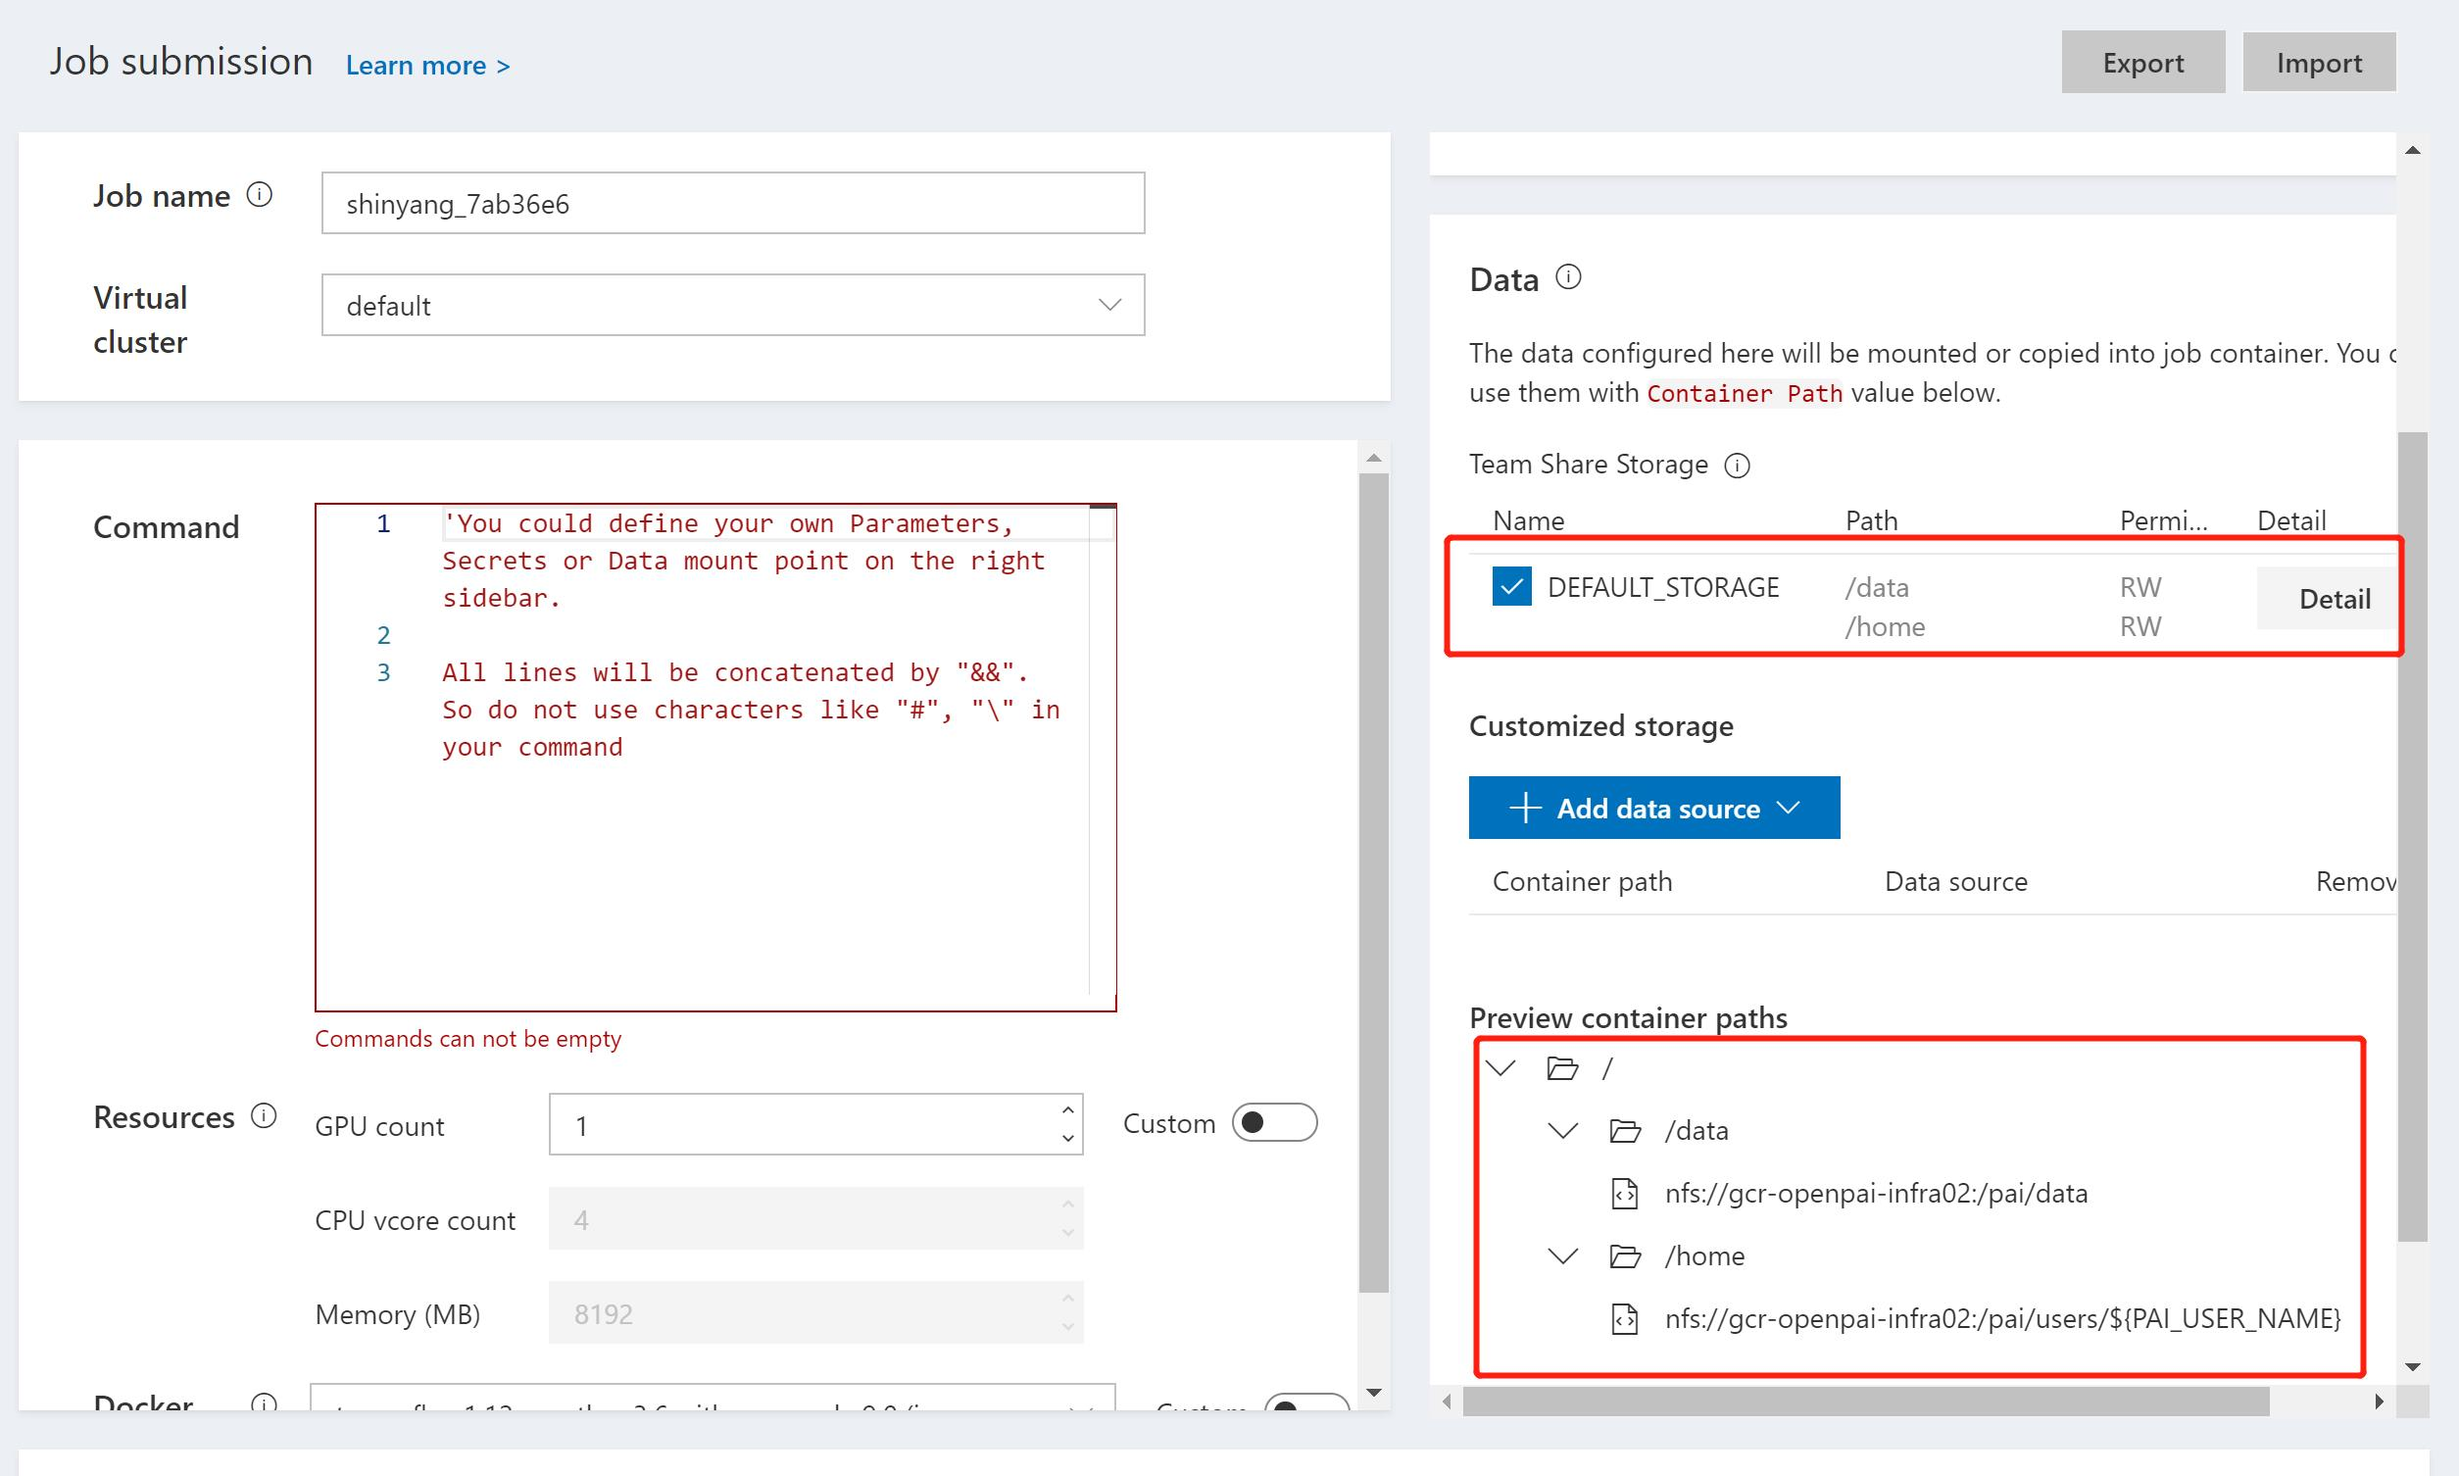
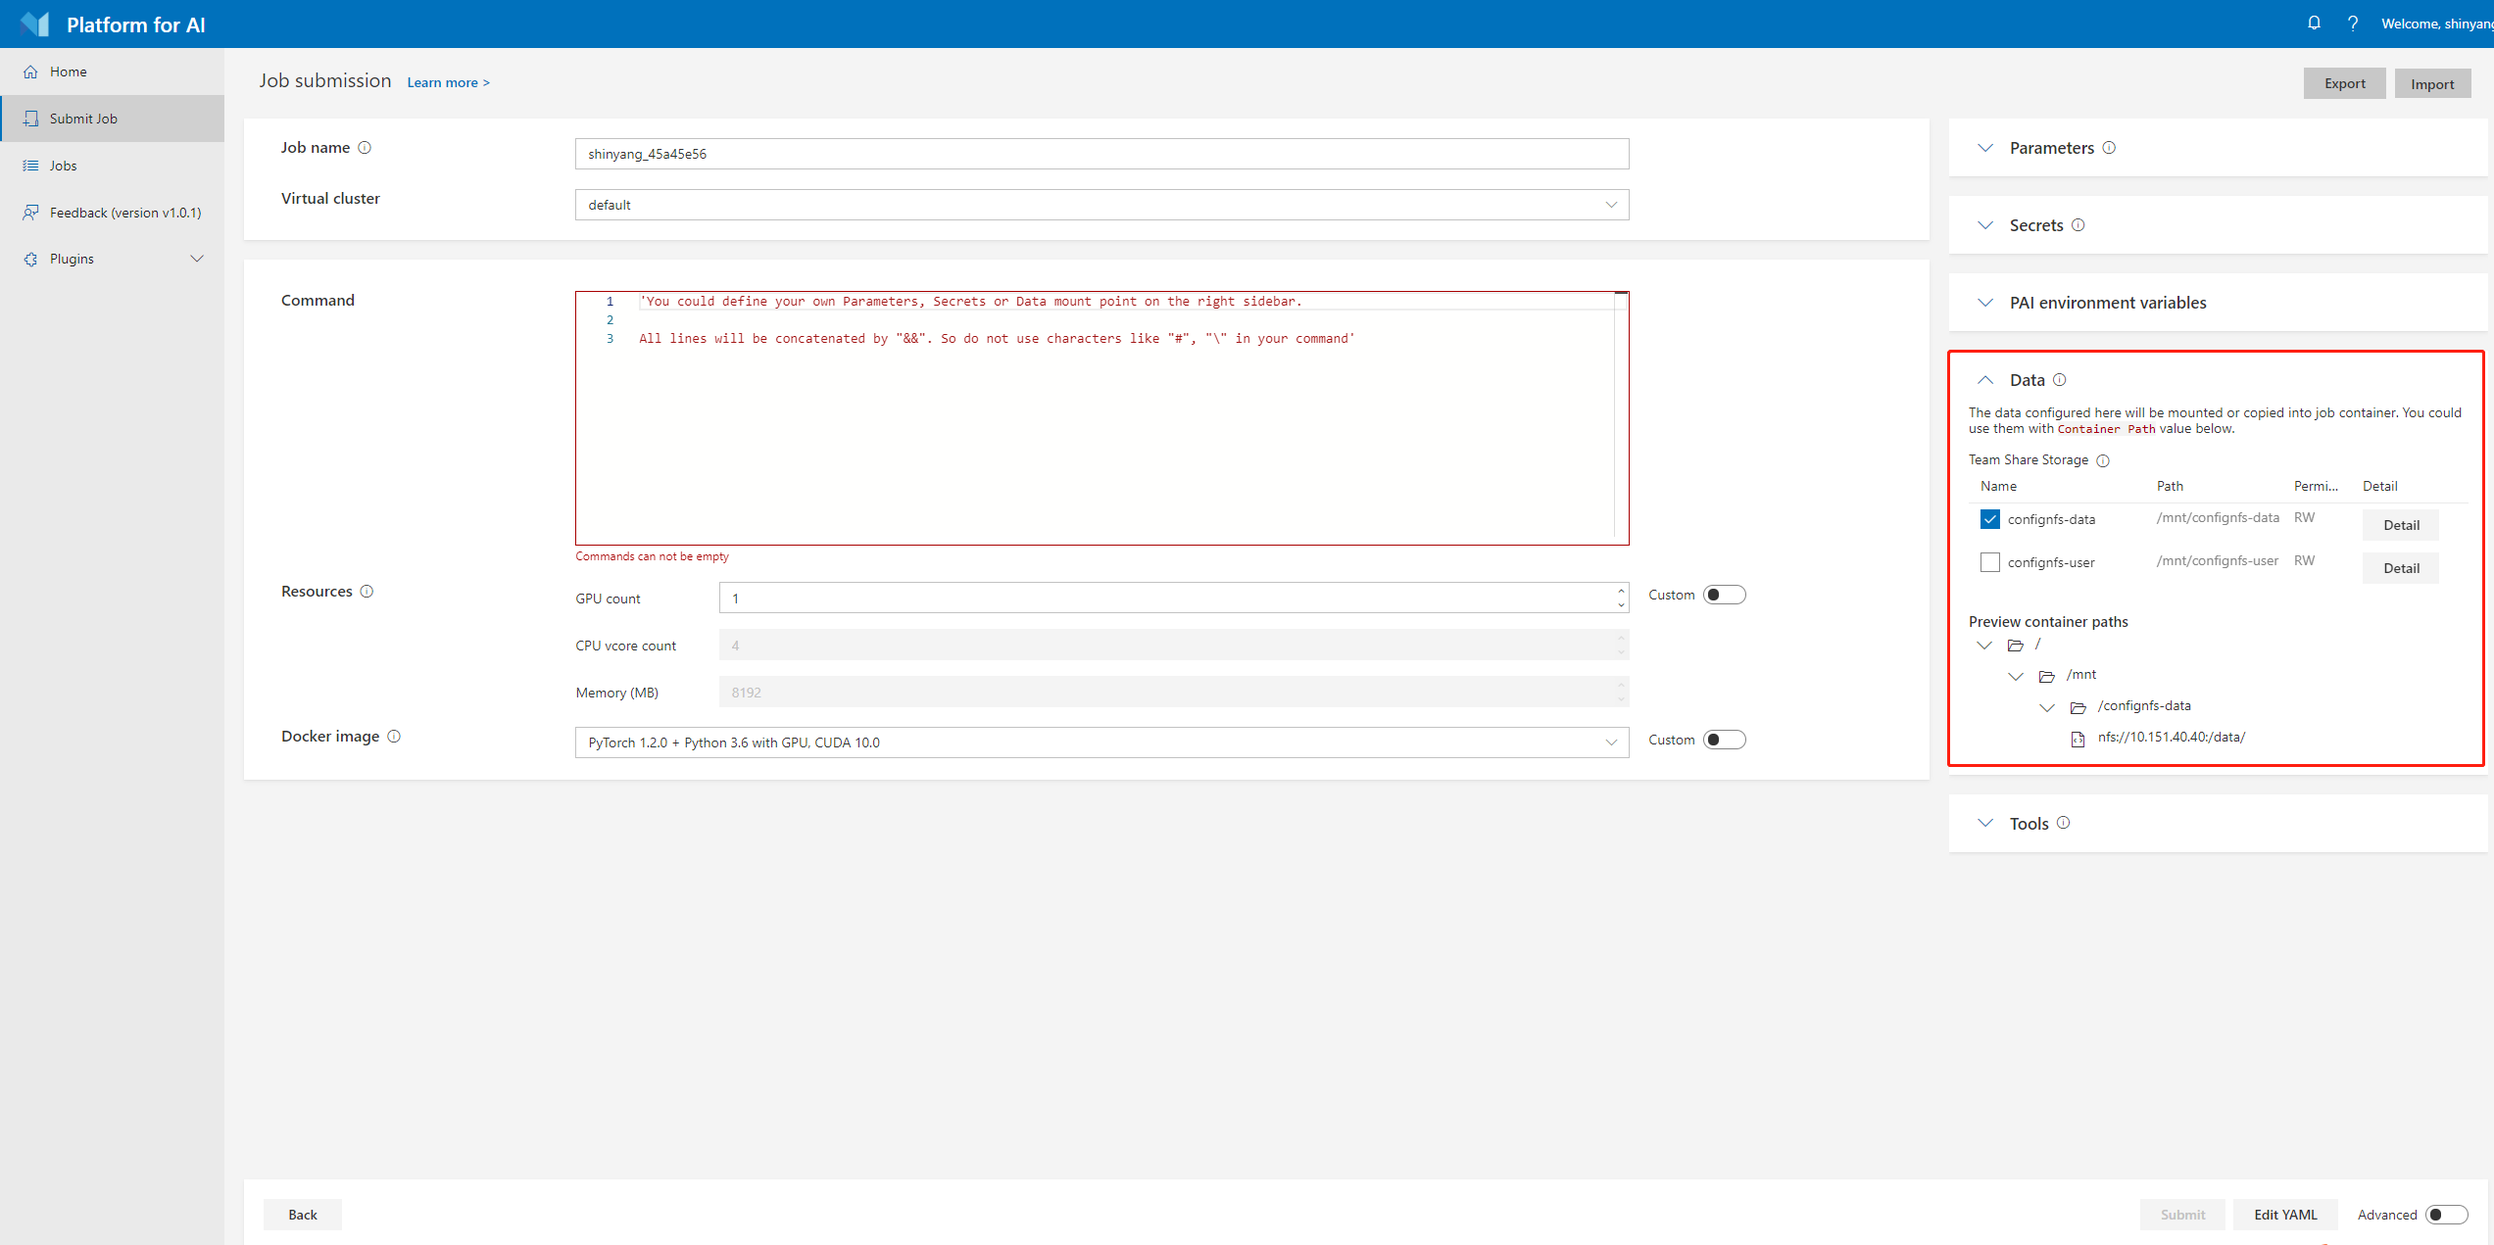
support paiStorageConfigName

diff --git a/src/nni_manager/training_service/pai/paiK8S/paiK8SConfig.ts b/src/nni_manager/training_service/pai/paiK8S/paiK8SConfig.ts
@@ -30,12 +30,12 @@ export class NNIPAIK8STrialConfig extends TrialConfig {
     public virtualCluster?: string;
     public readonly nniManagerNFSMountPath: string;
     public readonly containerNFSMountPath: string;
-    public readonly paiStoragePlugin: string;
+    public readonly paiStorageConfigName: string;
     public readonly paiConfigPath?: string;
 
     constructor(command: string, codeDir: string, gpuNum: number, cpuNum: number, memoryMB: number,
                 image: string, nniManagerNFSMountPath: string, containerNFSMountPath: string,
-                paiStoragePlugin: string, virtualCluster?: string, paiConfigPath?: string) {
+                paiStorageConfigName: string, virtualCluster?: string, paiConfigPath?: string) {
         super(command, codeDir, gpuNum);
         this.cpuNum = cpuNum;
         this.memoryMB = memoryMB;
@@ -43,7 +43,7 @@ export class NNIPAIK8STrialConfig extends TrialConfig {
         this.virtualCluster = virtualCluster;
         this.nniManagerNFSMountPath = nniManagerNFSMountPath;
         this.containerNFSMountPath = containerNFSMountPath;
-        this.paiStoragePlugin = paiStoragePlugin;
+        this.paiStorageConfigName = paiStorageConfigName;
         this.paiConfigPath = paiConfigPath;
     }
 }

diff --git a/src/nni_manager/rest_server/restValidationSchemas.ts b/src/nni_manager/rest_server/restValidationSchemas.ts
@@ -39,7 +39,7 @@ export namespace ValidationSchemas {
                 nniManagerNFSMountPath: joi.string().min(1),
                 containerNFSMountPath: joi.string().min(1),
                 paiConfigPath: joi.string(),
-                paiStoragePlugin: joi.string().min(1),
+                paiStorageConfigName: joi.string().min(1),
                 nasMode: joi.string().valid('classic_mode', 'enas_mode', 'oneshot_mode', 'darts_mode'),
                 portList: joi.array().items(joi.object({
                     label: joi.string().required(),

diff --git a/src/nni_manager/training_service/pai/paiK8S/paiK8STrainingService.ts b/src/nni_manager/training_service/pai/paiK8S/paiK8STrainingService.ts
@@ -233,9 +233,9 @@ class PAIK8STrainingService extends PAITrainingService {
                     }
                 },
                 extras: {
-                    'com.microsoft.pai.runtimeplugin': [
+                    'storages': [
                         {
-                            plugin: this.paiTrialConfig.paiStoragePlugin
+                            name: this.paiTrialConfig.paiStorageConfigName
                         }
                     ],
                     submitFrom: 'submit-job-v2'

diff --git a/test/nni_test/nnitest/generate_ts_config.py b/test/nni_test/nnitest/generate_ts_config.py
@@ -42,7 +42,9 @@ def update_training_service_config(args):
         if args.container_nfs_mount_path is not None:
             config[args.ts]['trial']['containerNFSMountPath'] = args.container_nfs_mount_path
         if args.pai_storage_plugin is not None:
-            config[args.ts]['trial']['paiStoragePlugin'] = args.pai_storage_plugin
+            config[args.ts]['trial']['paiStoraeConfigName'] = args.pai_storage_config_name
+        if args.pai_storage_config_name is not None:
+            config[args.ts]['trial']['paiStorageConfigName'] = args.pai_storage_config_name
         if args.vc is not None:
             config[args.ts]['trial']['virtualCluster'] = args.vc
     elif args.ts == 'kubeflow':
@@ -102,6 +104,7 @@ if __name__ == '__main__':
     parser.add_argument("--vc", type=str)
     parser.add_argument("--pai_token", type=str)
     parser.add_argument("--pai_storage_plugin", type=str)
+    parser.add_argument("--pai_storage_config_name", type=str)
     parser.add_argument("--nni_manager_nfs_mount_path", type=str)
     parser.add_argument("--container_nfs_mount_path", type=str)
     # args for kubeflow and frameworkController

diff --git a/tools/nni_cmd/launcher_utils.py b/tools/nni_cmd/launcher_utils.py
@@ -273,7 +273,7 @@ def validate_pai_config_path(experiment_config):
                 print_error('Please set taskRoles in paiConfigPath config file!')
                 exit(1)
         else:
-            pai_trial_fields_required_list = ['image', 'gpuNum', 'cpuNum', 'memoryMB', 'paiStoragePlugin', 'command']
+            pai_trial_fields_required_list = ['image', 'gpuNum', 'cpuNum', 'memoryMB', 'paiStorageConfigName', 'command']
             for trial_field in pai_trial_fields_required_list:
                 if experiment_config['trial'].get(trial_field) is None:
                     print_error('Please set {0} in trial configuration,\

diff --git a/tools/nni_cmd/config_schema.py b/tools/nni_cmd/config_schema.py
@@ -292,7 +292,7 @@ pai_trial_schema = {
         Optional('memoryMB'): setType('memoryMB', int),
         Optional('image'): setType('image', str),
         Optional('virtualCluster'): setType('virtualCluster', str),
-        Optional('paiStoragePlugin'): setType('paiStoragePlugin', str),
+        Optional('paiStorageConfigName'): setType('paiStorageConfigName', str),
         Optional('paiConfigPath'): And(os.path.exists, error=SCHEMA_PATH_ERROR % 'paiConfigPath')
     }
 }

diff --git a/docs/en_US/TrainingService/PaiMode.md b/docs/en_US/TrainingService/PaiMode.md
@@ -16,7 +16,7 @@ Step 3. Mount NFS storage to local machine.
 ![](../../img/pai_job_submission_page.jpg)  
    Find the data management region in job submission page.
 ![](../../img/pai_data_management_page.jpg)  
-The `DEFAULT_STORAGE`field is the path to be mounted in PAI's container when a job is started. The `Preview container paths` is the NFS host and path that PAI provided, you need to mount the corresponding host and path to your local machine first, then NNI could use the PAI's NFS storage.  
+The `Preview container paths` is the NFS host and path that PAI provided, you need to mount the corresponding host and path to your local machine first, then NNI could use the PAI's NFS storage.  
 For example, use the following command:
 ```
 sudo mount -t nfs4 gcr-openpai-infra02:/pai/data /local/mnt
@@ -25,13 +25,14 @@ Then the `/data` folder in container will be mounted to `/local/mnt` folder in y
 You could use the following configuration in your NNI's config file:
 ```
 nniManagerNFSMountPath: /local/mnt
-containerNFSMountPath: /data
 ```    
 
-Step 4. Get PAI's storage plugin name.
-Contact PAI's admin, and get the PAI's storage plugin name for NFS storage. The default storage name is `teamwise_storage`, the configuration in NNI's config file is in following value:
+Step 4. Get PAI's storage config name and nniManagerMountPath
+The `Team share storage` field is storage configuration used to specify storage value in PAI. You can get `paiStorageConfigName` and `containerNFSMountPath` field in `Team share storage`, for example:
+
 ```
-paiStoragePlugin: teamwise_storage
+paiStoraeConfigName: confignfs-data
+containerNFSMountPath: /mnt/confignfs-data
 ```
 
 ## Run an experiment
@@ -66,7 +67,7 @@ trial:
   virtualCluster: default
   nniManagerNFSMountPath: /home/user/mnt
   containerNFSMountPath: /mnt/data/user
-  paiStoragePlugin: teamwise_storage
+  paiStoraeConfigName: confignfs-data
 # Configuration to access OpenPAI Cluster
 paiConfig:
   userName: your_pai_nni_user
@@ -90,13 +91,13 @@ Compared with [LocalMode](LocalMode.md) and [RemoteMachineMode](RemoteMachineMod
     * Required key. Set the mount path in your nniManager machine.
 * containerNFSMountPath
     * Required key. Set the mount path in your container used in PAI.
-* paiStoragePlugin
-    * Optional key. Set the storage plugin name used in PAI. If it is not set in trial configuration, it should be set in the config file specified in `paiConfigPath` field.
+* paiStoraeConfigName:
+    * Optional key. Set the storage name used in PAI. If it is not set in trial configuration, it should be set in the config file specified in `paiConfigPath` field.
 * command  
     * Optional key. Set the commands used in PAI container.
 * paiConfigPath
     * Optional key. Set the file path of pai job configuration, the file is in yaml format.
-    If users set `paiConfigPath` in NNI's configuration file, no need to specify the fields `command`, `paiStoragePlugin`, `virtualCluster`, `image`, `memoryMB`, `cpuNum`, `gpuNum` in `trial` configuration. These fields will use the values from the config file specified by  `paiConfigPath`. 
+    If users set `paiConfigPath` in NNI's configuration file, no need to specify the fields `command`, `paiStoraeConfigName`, `virtualCluster`, `image`, `memoryMB`, `cpuNum`, `gpuNum` in `trial` configuration. These fields will use the values from the config file specified by  `paiConfigPath`. 
     ```
     Note:
       1. The job name in PAI's configuration file will be replaced by a new job name, the new job name is created by NNI, the name format is nni_exp_${this.experimentId}_trial_${trialJobId}.
@@ -127,7 +128,7 @@ And you will be redirected to HDFS web portal to browse the output files of that
 You can see there're three fils in output folder: stderr, stdout, and trial.log
 
 ## data management
-Befour using NNI to start your experiment, users should set the corresponding mount data path in your nniManager machine. PAI has their own storage(NFS, AzureBlob ...), and the storage will used in PAI will be mounted to the container when it start a job. Users should set the PAI storage type by `paiStoragePlugin` field to choose a storage in PAI. Then users should mount the storage to their nniManager machine, and set the `nniManagerNFSMountPath` field in configuration file, NNI will generate bash files and copy data in `codeDir` to the `nniManagerNFSMountPath` folder, then NNI will start a trial job. The data in `nniManagerNFSMountPath` will be sync to PAI storage, and will be mounted to PAI's container. The data path in container is set in `containerNFSMountPath`, NNI will enter this folder first, and then run scripts to start a trial job. 
+Befour using NNI to start your experiment, users should set the corresponding mount data path in your nniManager machine. PAI has their own storage(NFS, AzureBlob ...), and the storage will used in PAI will be mounted to the container when it start a job. Users should set the PAI storage type by `paiStoraeConfigName` field to choose a storage in PAI. Then users should mount the storage to their nniManager machine, and set the `nniManagerNFSMountPath` field in configuration file, NNI will generate bash files and copy data in `codeDir` to the `nniManagerNFSMountPath` folder, then NNI will start a trial job. The data in `nniManagerNFSMountPath` will be sync to PAI storage, and will be mounted to PAI's container. The data path in container is set in `containerNFSMountPath`, NNI will enter this folder first, and then run scripts to start a trial job. 
 
 ## version check
 NNI support version check feature in since version 0.6. It is a policy to insure the version of NNIManager is consistent with trialKeeper, and avoid errors caused by version incompatibility.
